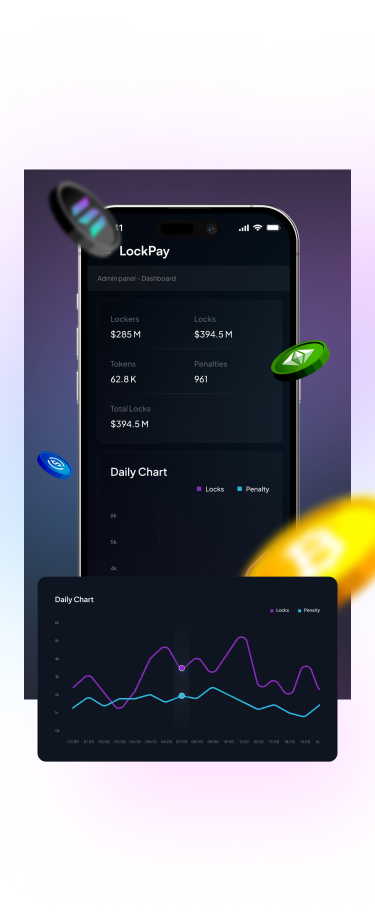
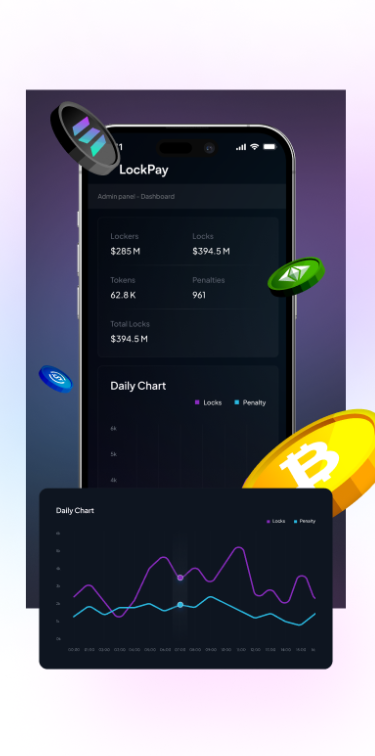
image corrected

diff --git a/src/components/home/Lockpay.tsx b/src/components/home/Lockpay.tsx
@@ -17,7 +17,7 @@ const Lockpay = () => {
         <img src="/mobile-responsive.webp" alt="desktop" className="w-full" />
       </div>
 
-      <div className="flex flex-col px-6 small:px-0 gap-4 items-start max-w-lg relative small:right-[14%] -top-10 small:top-0">
+      <div className="flex flex-col px-6 small:px-0 gap-4 items-start max-w-lg relative small:right-[14%] ">
         <h2 className={`${styles.gradientText}`}>Lockpay</h2>
         <h1 className={`${styles.title}`}>
           Customizable lockers for any project’s use cases
